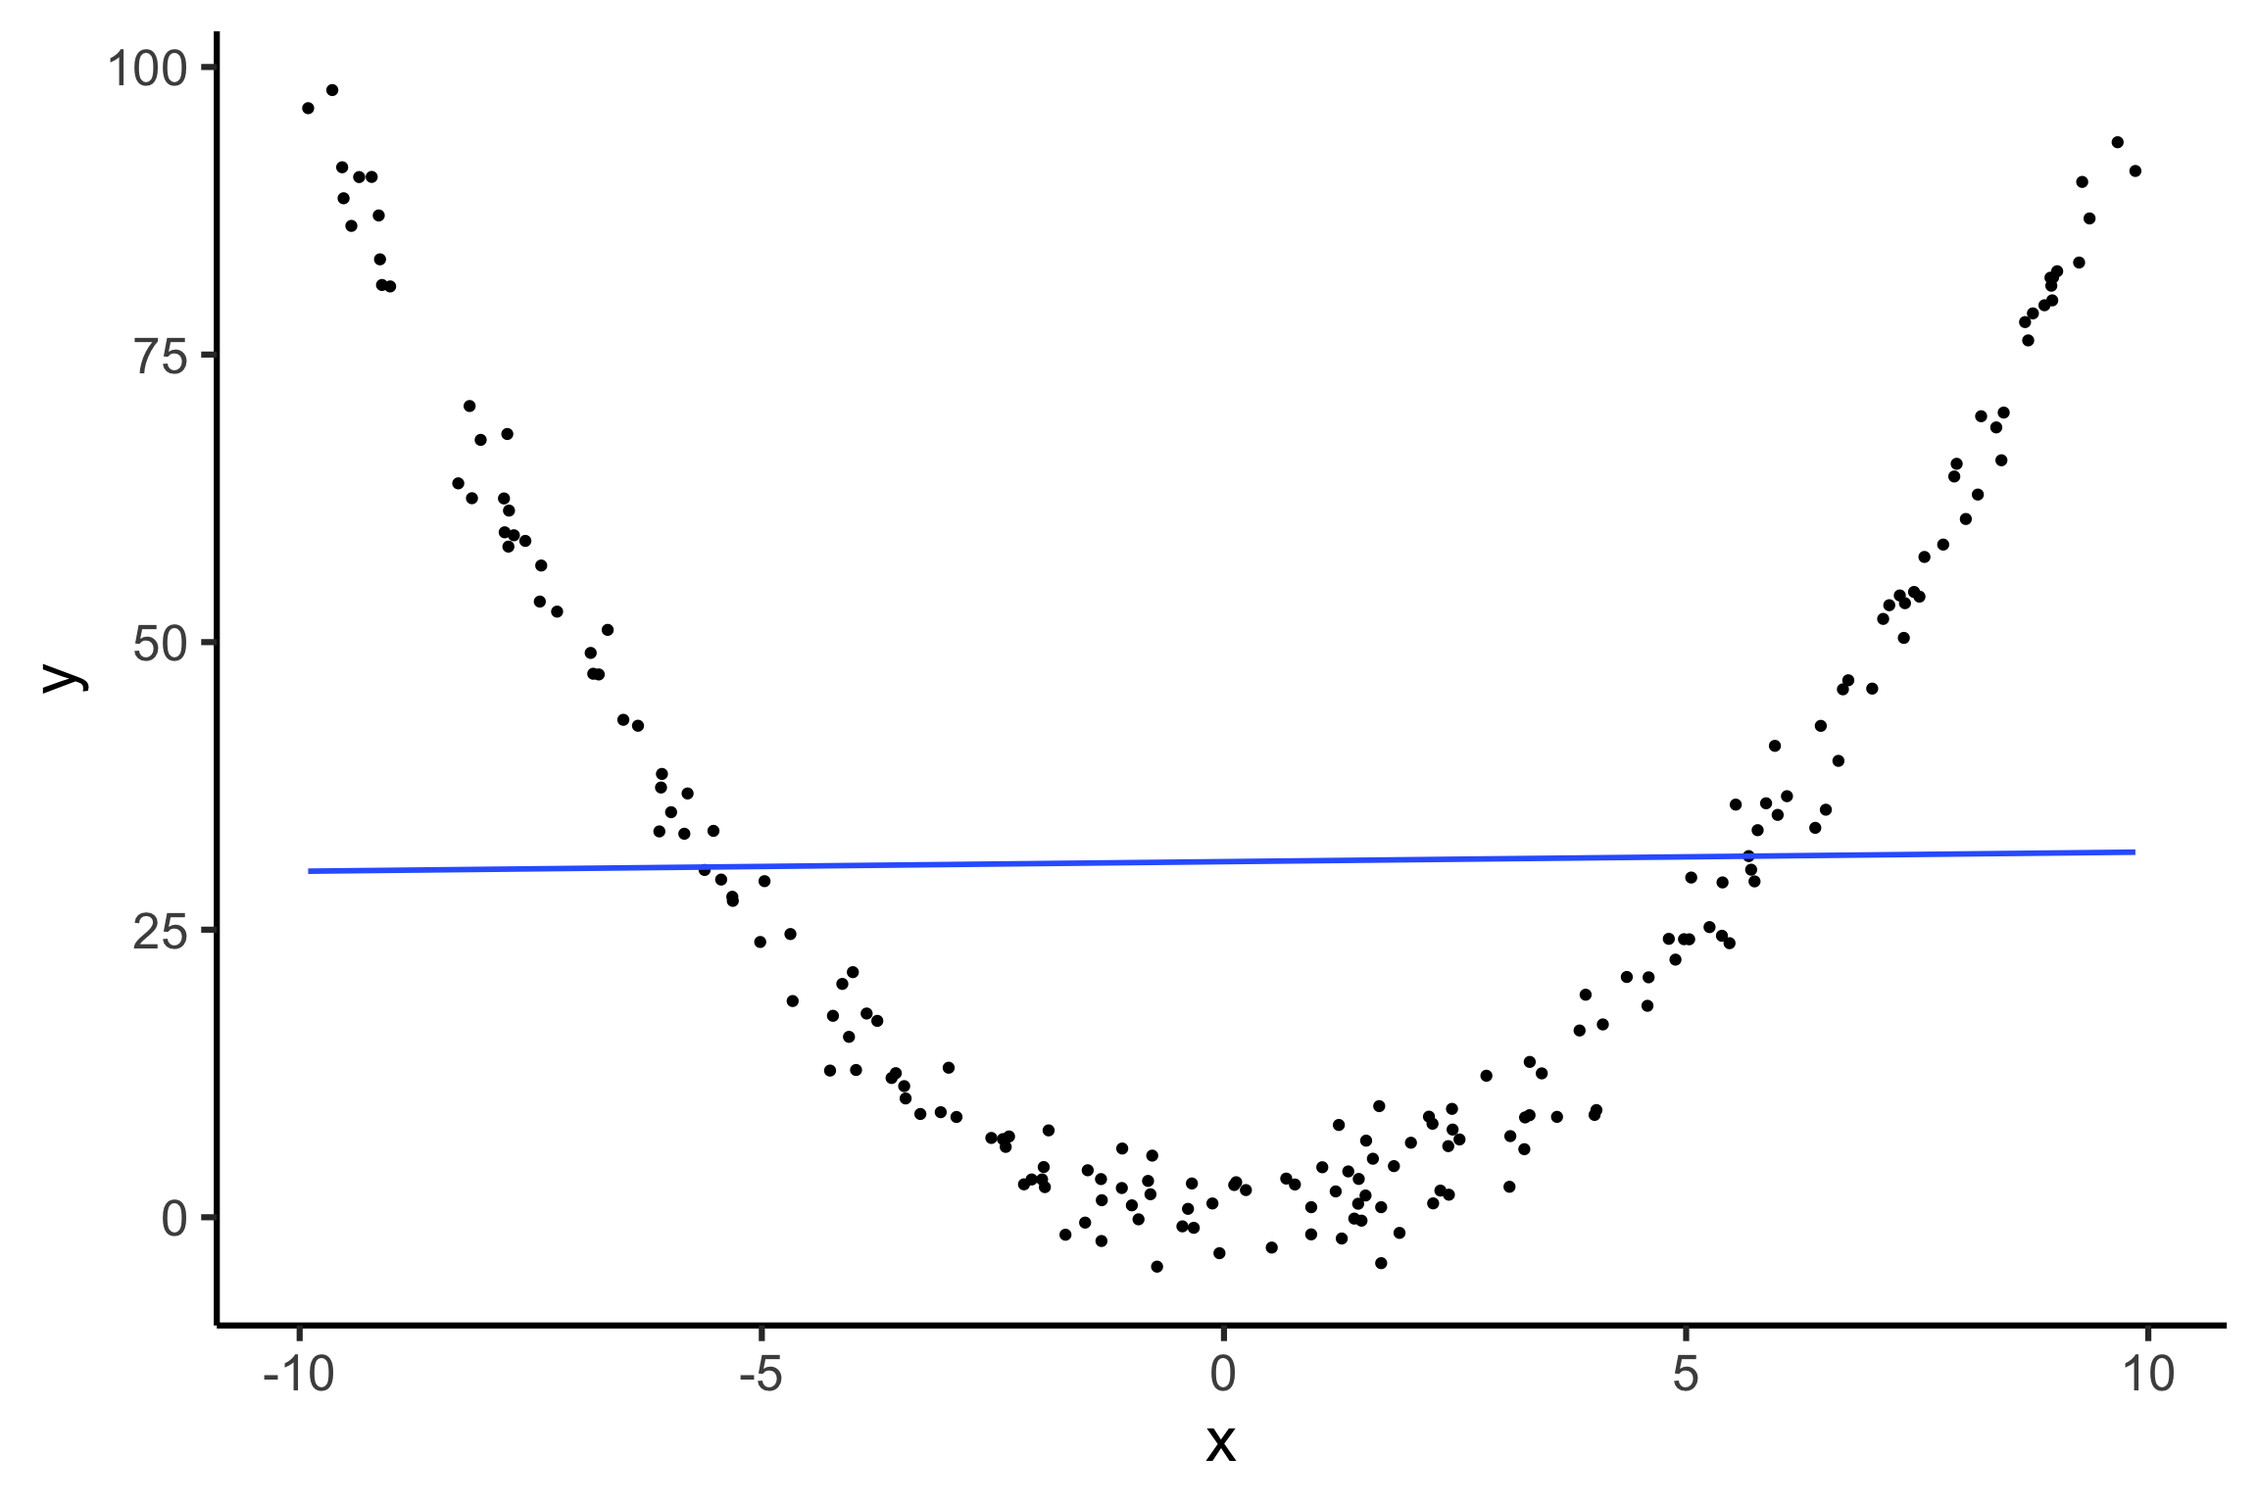
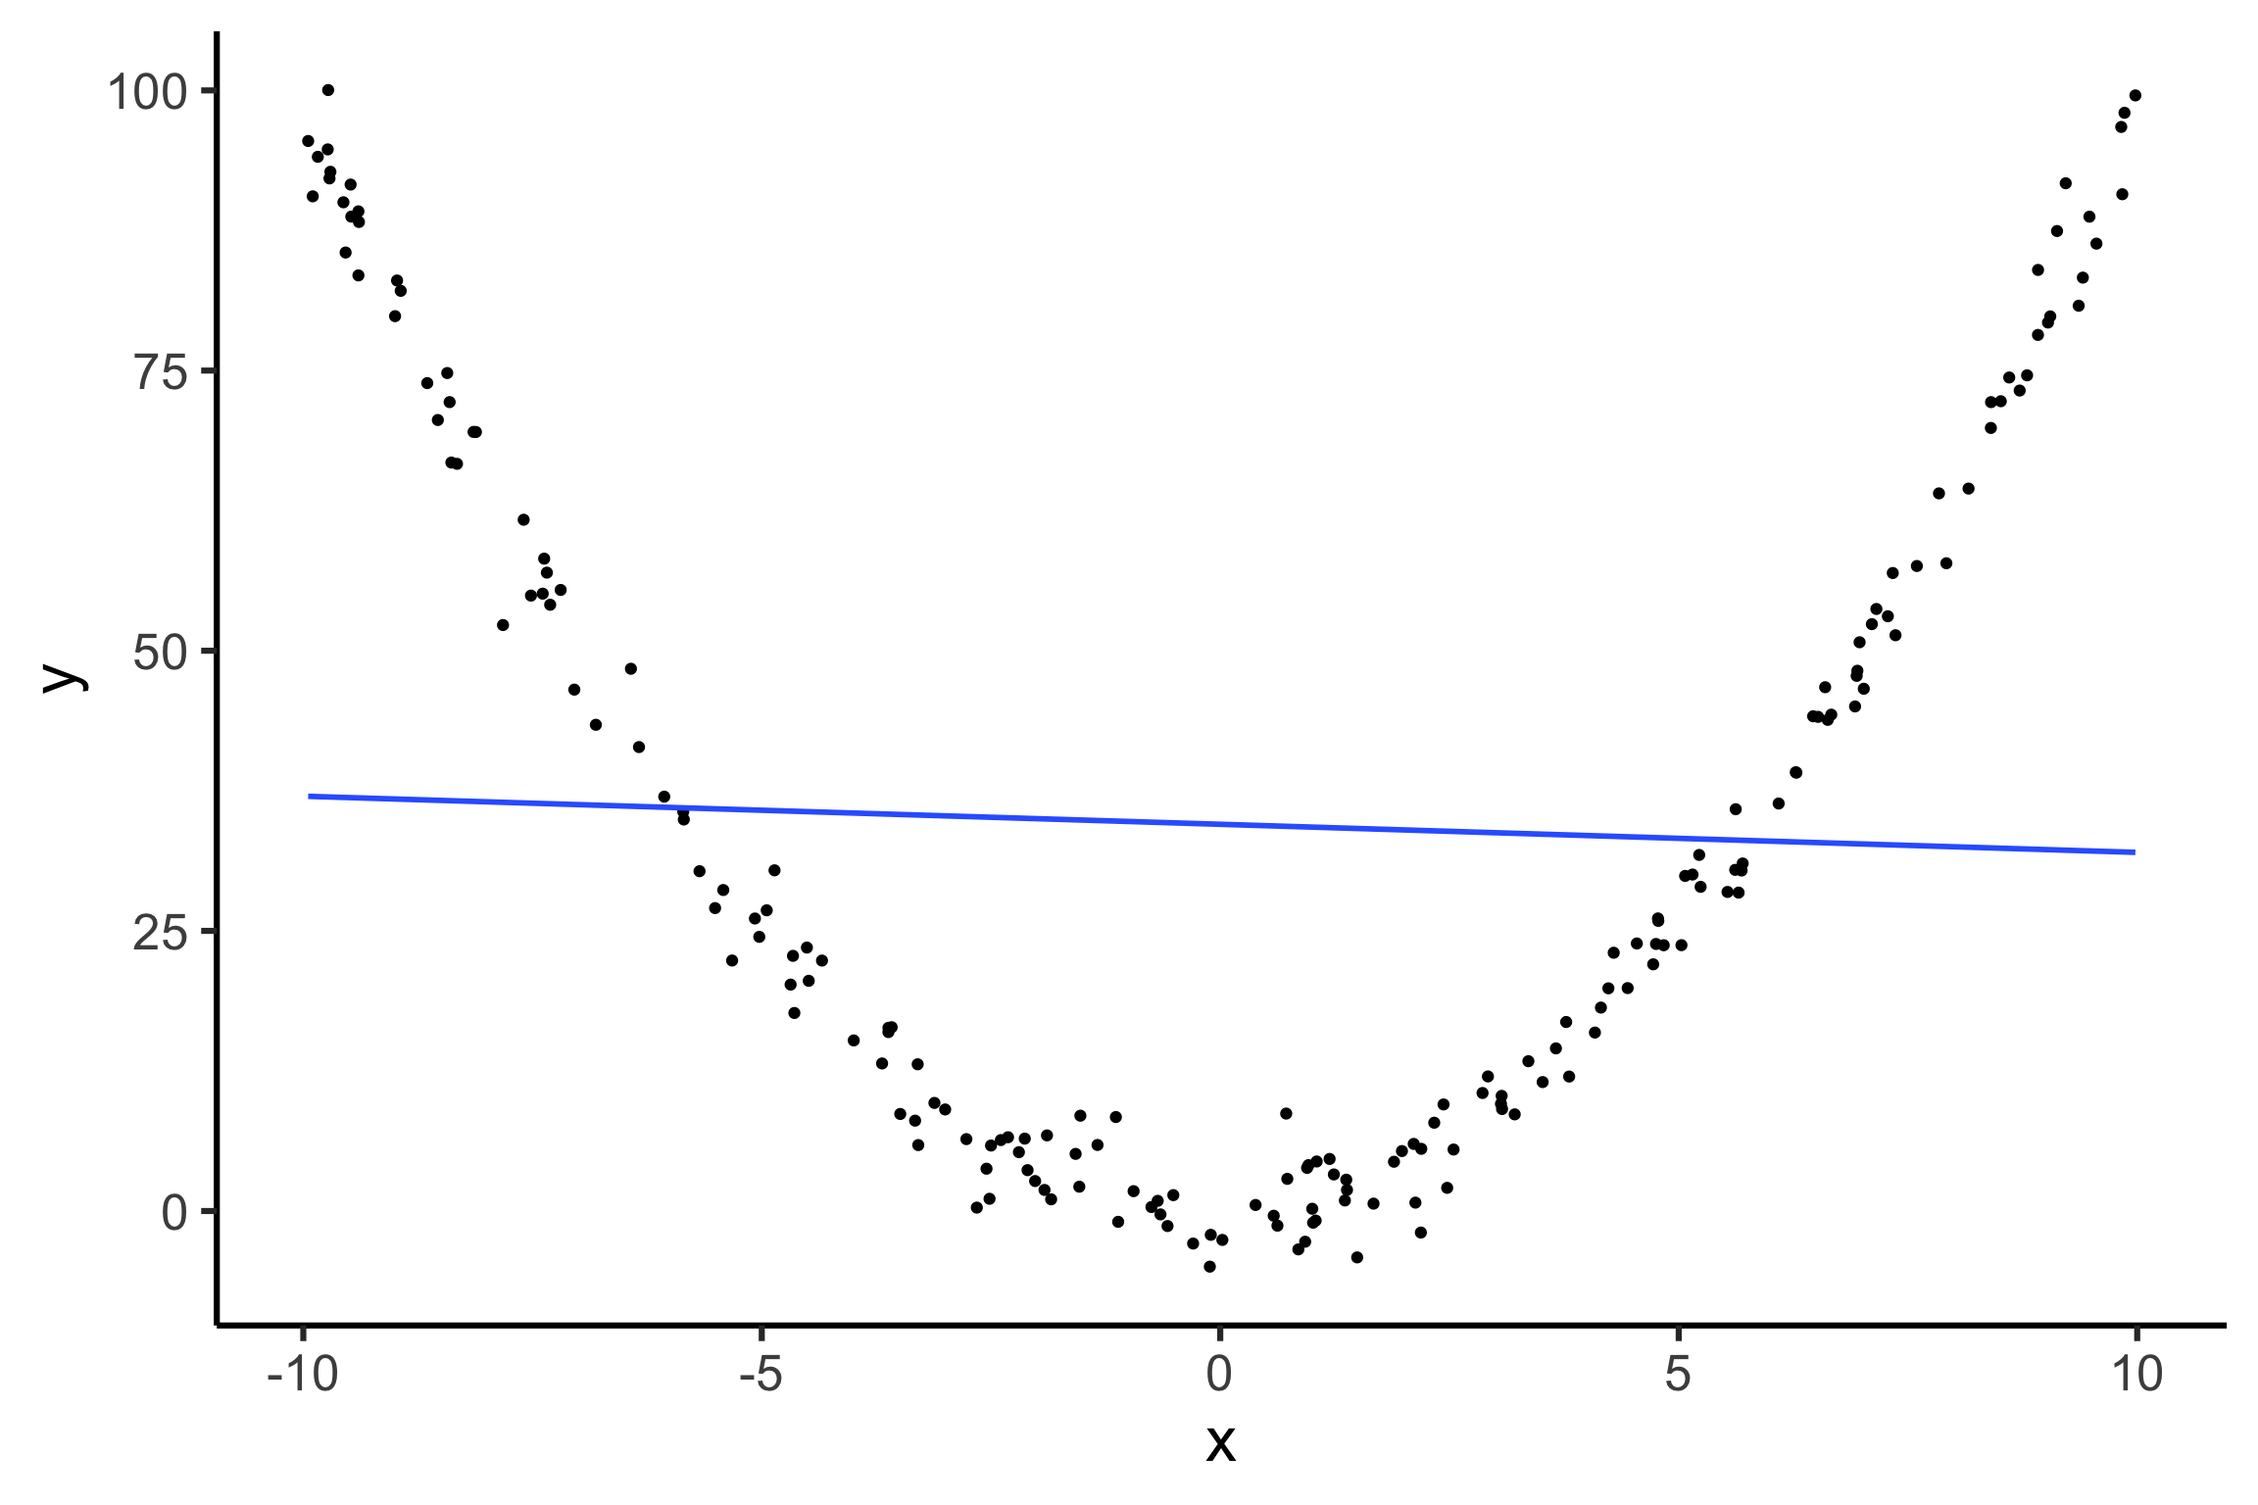
Built site for gh-pages

diff --git a/exercises/exercise02.html b/exercises/exercise02.html
@@ -420,8 +420,8 @@ eyJhdHRyIjp7ImNoZWNrIjp0cnVlLCJlZGl0Ijp0cnVlLCJldmFsIjp0cnVlLCJleGVyY2lzZSI6ImV4
 <ul>
 <li>Based on your answer to the previous question, what is the conclusion of the test using a significance level of 0.05?</li>
 </ul>
-<div id="radio_VOZXAMXVHF" class="webex-radiogroup">
-<label><input type="radio" autocomplete="off" name="radio_VOZXAMXVHF" value=""> <span>There is evidence to suggest that iguanas grow in size during the El Niño event.</span></label><label><input type="radio" autocomplete="off" name="radio_VOZXAMXVHF" value=""> <span>There is no evidence to suggest that iguanas shrink in size during the El Niño event.</span></label><label><input type="radio" autocomplete="off" name="radio_VOZXAMXVHF" value="answer"> <span>The data suggests that iguanas shrink in size during the El Niño event.</span></label>
+<div id="radio_RZKCQKEGMT" class="webex-radiogroup">
+<label><input type="radio" autocomplete="off" name="radio_RZKCQKEGMT" value="answer"> <span>The data suggests that iguanas shrink in size during the El Niño event.</span></label><label><input type="radio" autocomplete="off" name="radio_RZKCQKEGMT" value=""> <span>There is evidence to suggest that iguanas grow in size during the El Niño event.</span></label><label><input type="radio" autocomplete="off" name="radio_RZKCQKEGMT" value=""> <span>There is no evidence to suggest that iguanas shrink in size during the El Niño event.</span></label>
 </div>
 </section>
 <section id="exercise-2.1.4" class="level3">
@@ -538,8 +538,8 @@ eyJhdHRyIjp7ImNoZWNrIjp0cnVlLCJlZGl0Ijp0cnVlLCJldmFsIjp0cnVlLCJleGVyY2lzZSI6ImV4
 <ul>
 <li>Based on your answer to the previous question, what is the conclusion of the test using a significance level of 0.01?</li>
 </ul>
-<div id="radio_FNWBWTKGIX" class="webex-radiogroup">
-<label><input type="radio" autocomplete="off" name="radio_FNWBWTKGIX" value=""> <span>There is no evidence that the change in activation of mosquitos is different between drinking beer and water.</span></label><label><input type="radio" autocomplete="off" name="radio_FNWBWTKGIX" value=""> <span>There is evidence to suggest that drinking water attracts more mosquitos.</span></label><label><input type="radio" autocomplete="off" name="radio_FNWBWTKGIX" value="answer"> <span>There is strong evidence to suggest that drinking beer attracts more mosquitos.</span></label>
+<div id="radio_TMNSILSPND" class="webex-radiogroup">
+<label><input type="radio" autocomplete="off" name="radio_TMNSILSPND" value=""> <span>There is evidence to suggest that drinking water attracts more mosquitos.</span></label><label><input type="radio" autocomplete="off" name="radio_TMNSILSPND" value=""> <span>There is no evidence that the change in activation of mosquitos is different between drinking beer and water.</span></label><label><input type="radio" autocomplete="off" name="radio_TMNSILSPND" value="answer"> <span>There is strong evidence to suggest that drinking beer attracts more mosquitos.</span></label>
 </div>
 </section>
 </section>
@@ -581,12 +581,12 @@ eyJhdHRyIjp7ImNoZWNrIjp0cnVlLCJlZGl0Ijp0cnVlLCJldmFsIjp0cnVlLCJleGVyY2lzZSI6ImV4
 <ul>
 <li>Based on your answer to the previous question, what is the conclusion of the test using a significance level of 0.05?</li>
 </ul>
-<div id="radio_QKHVNBKMUH" class="webex-radiogroup">
-<label><input type="radio" autocomplete="off" name="radio_QKHVNBKMUH" value=""> <span>There is strong evidence to suggest that the new pesticide is more effective than the standard one.</span></label><label><input type="radio" autocomplete="off" name="radio_QKHVNBKMUH" value=""> <span>There is evidence to suggest that the new pesticide is less effective than the standard one.</span></label><label><input type="radio" autocomplete="off" name="radio_QKHVNBKMUH" value="answer"> <span>There is no evidence that the new pesticide is more effective than the standard one.</span></label>
+<div id="radio_OCSJSVOPVE" class="webex-radiogroup">
+<label><input type="radio" autocomplete="off" name="radio_OCSJSVOPVE" value=""> <span>There is evidence to suggest that the new pesticide is less effective than the standard one.</span></label><label><input type="radio" autocomplete="off" name="radio_OCSJSVOPVE" value="answer"> <span>There is no evidence that the new pesticide is more effective than the standard one.</span></label><label><input type="radio" autocomplete="off" name="radio_OCSJSVOPVE" value=""> <span>There is strong evidence to suggest that the new pesticide is more effective than the standard one.</span></label>
 </div>
 <p><br><br></p>
 <hr>
-<p>🎉 <em>Yahoo! </em> You’ve reached the end of this exercise! <em>You are groundbreaking!</em> Proceed to …<br><br></p>
+<p>🎉 <em>Hurrah! </em> You’ve reached the end of this exercise! <em>You are great!</em> Proceed to …<br><br></p>
 <p><a href="../slides/slide3.html" class="button-next"><i class="fas fa-caret-square-right"></i> next slide</a> <br><br></p>
 <p><a href="../exercises/exercise03.html" class="button-next"><i class="fas fa-caret-square-right"></i> next exercise</a></p>
 

diff --git a/slides/slide3.html b/slides/slide3.html
@@ -452,7 +452,7 @@ eyJhdHRyIjp7ImVjaG8iOmZhbHNlLCJlZGl0IjpmYWxzZSwiZXZhbCI6dHJ1ZSwiZmlnLWhlaWdodCI6
 </div>
 </div>
 <ul>
-<li><span class="math inline">r = 0.0159254</span></li>
+<li><span class="math inline">r = -0.0466581</span></li>
 </ul>
 </div></div>
 </section>
@@ -520,7 +520,7 @@ eyJhdHRyIjp7ImVjaG8iOmZhbHNlLCJlZGl0IjpmYWxzZSwiZXZhbCI6dHJ1ZSwiZmlnLWhlaWdodCI6
 <ul>
 <li><span class="math inline">\boldsymbol{\beta} = \begin{bmatrix}\beta_0 \\ \beta_1\end{bmatrix}</span> are referred to as the <span class="primary"><strong>regression parameters/coefficients</strong></span>.</li>
 </ul>
-<p><span id="intercept" class="primary absolute" style="left: 20%; bottom: 35%; "><strong>intercept</strong></span> <span id="slope" class="primary absolute" style="left: 50%; bottom: 25%; "><strong>slope</strong></span> <span id="error" class="absolute" style="top: 45%; left: 66%; "><span class="primary"><strong>error</strong></span> for the <span class="math inline">i</span>-th observation, and assume <span class="math inline">\epsilon_i \sim NID(0, \sigma^2)</span>, i.e.&nbsp;normally and independently distributed with mean 0 and variance <span class="math inline">\sigma^2</span>.</span></p>
+<p><span id="intercept" class="primary absolute" style="left: 20%; bottom: 35%; "><strong>intercept</strong></span> <span id="slope" class="primary absolute" style="left: 50%; bottom: 25%; "><strong>slope</strong></span> <span id="error" class="absolute" style="top: 45%; left: 66%; "><span class="primary"><strong>error</strong></span> for the <span class="math inline">i</span>-th observation, and assume <span class="math inline">\epsilon_i \stackrel{iid}{\sim} N(0, \sigma^2)</span>, i.e.&nbsp;normally and independently distributed with mean 0 and variance <span class="math inline">\sigma^2</span>.</span></p>
 <p><span class="leaderline" start="#intercept" data-end="#beta0" data-draw-effect="draw" data-end-socket="bottom"></span> <span class="leaderline" start="#slope" data-end="#beta1" data-draw-effect="draw"></span> <span class="leaderline" start="#error" data-end="#errori" data-draw-effect="draw"></span></p>
 </section>
 <section id="least-squares-estimates" class="slide level2">
@@ -707,7 +707,7 @@ eyJhdHRyIjp7ImVkaXQiOnRydWUsImV2YWwiOnRydWV9LCJjb2RlIjoiIyBvdXRwdXQgPSB0aWJibGVc
 <section id="assumptions-for-linear-regression" class="slide level2">
 <h2><span class="page-concept">Assumptions for linear regression</span></h2>
 <ul>
-<li>Recall for <span class="math inline">i=1,\ldots,n</span>, <span class="math inline">\epsilon_i \sim NID(0,\sigma^2)</span> which means:
+<li>Recall for <span class="math inline">i=1,\ldots,n</span>, <span class="math inline">\epsilon_i \stackrel{iid}{\sim} N(0,\sigma^2)</span> which means:
 <ul>
 <li>(A1) <span class="math inline">\text{E}(\epsilon_i) = 0</span></li>
 <li>(A2) <span class="math inline">\epsilon_1, \ldots ,\epsilon_n</span> are <span class="primary">independent</span>.</li>

diff --git a/index.html b/index.html
@@ -611,7 +611,7 @@ Parametric distributions to describe and simulate data
 </div>
 </a>
 </div>
-<div class="g-col-1" data-index="2" data-listing-date-sort="1739800800000" data-listing-file-modified-sort="1739834647501" data-listing-date-modified-sort="NaN" data-listing-reading-time-sort="10" data-listing-word-count-sort="1975">
+<div class="g-col-1" data-index="2" data-listing-date-sort="1739800800000" data-listing-file-modified-sort="1739919972742" data-listing-date-modified-sort="NaN" data-listing-reading-time-sort="10" data-listing-word-count-sort="1969">
 <a href="./slides/slide2.html" class="quarto-grid-link">
 <div class="quarto-grid-item card h-100 card-left">
 <p class="card-img-top">
@@ -628,7 +628,7 @@ Introduction to statistical inference
 </div>
 </a>
 </div>
-<div class="g-col-1" data-index="3" data-listing-date-sort="1739800800000" data-listing-file-modified-sort="1739863683289" data-listing-date-modified-sort="NaN" data-listing-reading-time-sort="13" data-listing-word-count-sort="2516">
+<div class="g-col-1" data-index="3" data-listing-date-sort="1739800800000" data-listing-file-modified-sort="1739920042259" data-listing-date-modified-sort="NaN" data-listing-reading-time-sort="13" data-listing-word-count-sort="2516">
 <a href="./slides/slide3.html" class="quarto-grid-link">
 <div class="quarto-grid-item card h-100 card-left">
 <p class="card-img-top">

diff --git a/slides/slide2.html b/slides/slide2.html
@@ -527,9 +527,9 @@ eyJhdHRyIjp7ImVkaXQiOnRydWUsImV2YWwiOnRydWV9LCJjb2RlIjoiY29uZmludCh0LnRlc3QoeCwg
 </div>
 <ul>
 <li><strong>Assumptions</strong>: Both populations are normally distributed (or sample sizes <span class="math inline">n_1</span> and <span class="math inline">n_2</span> are sufficiently large).</li>
-<li><strong>Test statistic</strong>: <span class="math inline">t = \dfrac{\bar{X}_1 - \bar{X}_2}{\sqrt{\dfrac{S_1^2}{n_1} + \dfrac{S_2^2}{n_2}}} \sim t_{n_1 + n_2 - 2}</span>, where:
+<li><strong>Test statistic</strong>: <span class="math inline">t = \dfrac{\bar{X}_1 - \bar{X}_2}{SE(\bar{X}_1 - \bar{X}_2)} \sim t_{n_1 + n_2 - 2}</span>, where:
 <ul>
-<li><span class="math inline">\bar{X}_i</span> and <span class="math inline">S_i</span> are the sample mean and standard deviation, respectively, of population <span class="math inline">i</span> for <span class="math inline">i = 1, 2</span>.</li>
+<li><span class="math inline">\bar{X}_1</span> and <span class="math inline">\bar{X}_2</span> are the sample means for population 1 and 2, respectively.</li>
 </ul></li>
 </ul>
 </section>

diff --git a/exercises/exercise01.html b/exercises/exercise01.html
@@ -796,7 +796,7 @@ eyJhdHRyIjp7ImNoZWNrIjp0cnVlLCJlZGl0Ijp0cnVlLCJldmFsIjp0cnVlLCJleGVyY2lzZSI6ImV4
 </div>
 <p><br><br></p>
 <hr>
-<p>🎉 <em>Yikes! </em> You’ve reached the end of this exercise! <em>You are glorious!</em> Proceed to …<br><br></p>
+<p>🎉 <em>Ho-ho! </em> You’ve reached the end of this exercise! <em>You are superior!</em> Proceed to …<br><br></p>
 <p><a href="../slides/slide2.html" class="button-next"><i class="fas fa-caret-square-right"></i> next slide</a> <br><br></p>
 <p><a href="../exercises/exercise02.html" class="button-next"><i class="fas fa-caret-square-right"></i> next exercise</a></p>
 

diff --git a/exercises/exercise03.html b/exercises/exercise03.html
@@ -728,7 +728,7 @@ eyJhdHRyIjp7ImNoZWNrIjp0cnVlLCJlZGl0Ijp0cnVlLCJldmFsIjp0cnVlLCJleGVyY2lzZSI6ImV4
 </div>
 <p><br><br></p>
 <hr>
-<p>🎉 <em>Ahhh! </em> You’ve reached the end of this exercise! <em>You are wonderful!</em> Proceed to …<br><br></p>
+<p>🎉 <em>Oh! </em> You’ve reached the end of this exercise! <em>You are stylish!</em> Proceed to …<br><br></p>
 <p><a href="../slides/slide4.html" class="button-next"><i class="fas fa-caret-square-right"></i> next slide</a> <br><br></p>
 <p><a href="../exercises/exercise04.html" class="button-next"><i class="fas fa-caret-square-right"></i> next exercise</a></p>
 

diff --git a/exercises/exercise05.html b/exercises/exercise05.html
@@ -395,7 +395,7 @@ eyJhdHRyIjp7ImVkaXQiOnRydWUsImV2YWwiOnRydWUsImV4ZXJjaXNlIjoiZXgxMyJ9LCJjb2RlIjoi
 </div>
 <p><br><br></p>
 <hr>
-<p>🎉 <em>Aha! </em> You’ve reached the end of this exercise! <em>You are peachy!</em> Proceed to …<br><br></p>
+<p>🎉 <em>Whoa! </em> You’ve reached the end of this exercise! <em>You are epic!</em> Proceed to …<br><br></p>
 <p><a href="../slides/slide6.html" class="button-next"><i class="fas fa-caret-square-right"></i> next slide</a> <br><br></p>
 <p><a href="../exercises/exercise06.html" class="button-next"><i class="fas fa-caret-square-right"></i> next exercise</a></p>
 

diff --git a/exercises/exercise04.html b/exercises/exercise04.html
@@ -667,7 +667,7 @@ fit3 |&gt;
 </div>
 <p><br><br></p>
 <hr>
-<p>🎉 <em>Aww! </em> You’ve reached the end of this exercise! <em>You are extraordinary!</em> Proceed to …<br><br></p>
+<p>🎉 <em>Ho-ho! </em> You’ve reached the end of this exercise! <em>You are fantabulous!</em> Proceed to …<br><br></p>
 <p><a href="../slides/slide5.html" class="button-next"><i class="fas fa-caret-square-right"></i> next slide</a> <br><br></p>
 <p><a href="../exercises/exercise05.html" class="button-next"><i class="fas fa-caret-square-right"></i> next exercise</a></p>
 

diff --git a/exercises/exercise06.html b/exercises/exercise06.html
@@ -644,7 +644,7 @@ eyJhdHRyIjp7ImNhcHRpb24iOiJFeGVyY2lzZSA2LjEwIiwiZWRpdCI6dHJ1ZSwiZXZhbCI6dHJ1ZSwi
 </div>
 <p><br><br></p>
 <hr>
-<p>🎉 <em>Whee! </em> That concludes all of the exercises!</p>
+<p>🎉 <em>Whoa! </em> That concludes all of the exercises!</p>
 <div class="cell" data-autorun="true" data-caption="🥳">
 <div>
 <div id="webr-25" class="exercise-cell">
